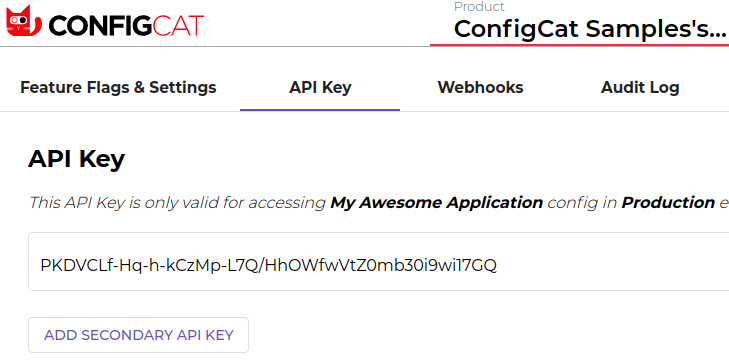
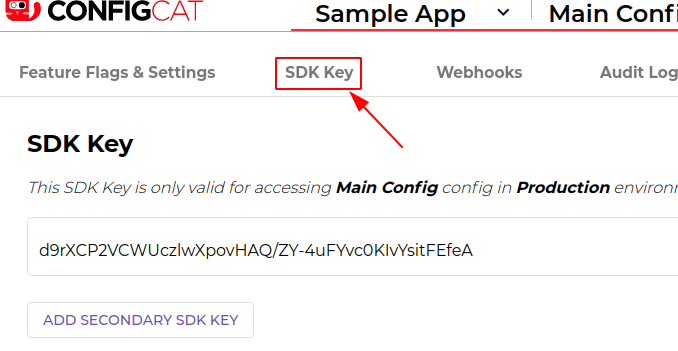
sdk key

diff --git a/test/IntegrationTests.ts b/test/IntegrationTests.ts
@@ -6,13 +6,13 @@ import { User } from "configcat-common/lib/RolloutEvaluator";
 
 describe("Integration - ConfigCatClient", () => {
 
-  let apiKey: string = "PKDVCLf-Hq-h-kCzMp-L7Q/psuH7BGHoUmdONrzzUOY7A";
+  let sdkKey: string = "PKDVCLf-Hq-h-kCzMp-L7Q/psuH7BGHoUmdONrzzUOY7A";
 
-  let clientAutoPoll: IConfigCatClient = configcatClient.createClientWithAutoPoll(apiKey);
+  let clientAutoPoll: IConfigCatClient = configcatClient.createClientWithAutoPoll(sdkKey);
 
-  let clientManualPoll: IConfigCatClient = configcatClient.createClientWithManualPoll(apiKey);
+  let clientManualPoll: IConfigCatClient = configcatClient.createClientWithManualPoll(sdkKey);
 
-  let clientLazyLoad: IConfigCatClient = configcatClient.createClientWithLazyLoad(apiKey);
+  let clientLazyLoad: IConfigCatClient = configcatClient.createClientWithLazyLoad(sdkKey);
 
   it("Auto poll - getValue() with key: 'stringDefaultCat' should return 'Cat'", (done) => {
 
@@ -185,7 +185,7 @@ describe("Integration - ConfigCatClient", () => {
     assert.equal(actual, "Horse");
   });
 
-  it("Auto poll with wrong API key - getValue() should return default value", (done) => {
+  it("Auto poll with wrong SDK Key - getValue() should return default value", (done) => {
 
     const defaultValue: string = "NOT_CAT";
     let client: IConfigCatClient = configcatClient.createClientWithAutoPoll("WRONG_API_KEY", { requestTimeoutMs: 500 });
@@ -198,7 +198,7 @@ describe("Integration - ConfigCatClient", () => {
     });
   });
 
-  it("Auto poll with wrong API key - getValueAsync() should return default value", async () => {
+  it("Auto poll with wrong SDK Key - getValueAsync() should return default value", async () => {
 
     const defaultValue: string = "NOT_CAT";
     let client: IConfigCatClient = configcatClient.createClientWithAutoPoll("WRONG_API_KEY", { requestTimeoutMs: 500 });
@@ -207,7 +207,7 @@ describe("Integration - ConfigCatClient", () => {
     assert.strictEqual(actual, defaultValue);
   });
 
-  it("Manual poll with wrong API key - getValue() should return default value", (done) => {
+  it("Manual poll with wrong SDK Key - getValue() should return default value", (done) => {
 
     const defaultValue: string = "NOT_CAT";
     let client: IConfigCatClient = configcatClient.createClientWithManualPoll("WRONG_API_KEY", { requestTimeoutMs: 500 });
@@ -226,7 +226,7 @@ describe("Integration - ConfigCatClient", () => {
     });
   });
 
-  it("Manual poll with wrong API key - getValueAsync() should return default value", async () => {
+  it("Manual poll with wrong SDK Key - getValueAsync() should return default value", async () => {
 
     const defaultValue: string = "NOT_CAT";
     let client: IConfigCatClient = configcatClient.createClientWithManualPoll("WRONG_API_KEY", { requestTimeoutMs: 500 });
@@ -238,7 +238,7 @@ describe("Integration - ConfigCatClient", () => {
     assert.strictEqual(actual2, defaultValue);
   });
 
-  it("Lazy load with wrong API key - getValue() should return default value", (done) => {
+  it("Lazy load with wrong SDK Key - getValue() should return default value", (done) => {
 
     const defaultValue: string = "NOT_CAT";
     let client: IConfigCatClient = configcatClient.createClientWithLazyLoad("WRONG_API_KEY", { requestTimeoutMs: 500 });
@@ -250,7 +250,7 @@ describe("Integration - ConfigCatClient", () => {
     });
   });
 
-  it("Lazy load with wrong API key - getValueAsync() should return default value", async () => {
+  it("Lazy load with wrong SDK Key - getValueAsync() should return default value", async () => {
 
     const defaultValue: string = "NOT_CAT";
     let client: IConfigCatClient = configcatClient.createClientWithLazyLoad("WRONG_API_KEY", { requestTimeoutMs: 500 });
@@ -259,7 +259,7 @@ describe("Integration - ConfigCatClient", () => {
     assert.strictEqual(actual, defaultValue);
   });
 
-  it("getAllKeys() should not crash with wrong API key", (done) => {
+  it("getAllKeys() should not crash with wrong SDK Key", (done) => {
 
     let client: IConfigCatClient = configcatClient.createClientWithManualPoll("WRONG_API_KEY", { requestTimeoutMs: 500 });
 
@@ -270,7 +270,7 @@ describe("Integration - ConfigCatClient", () => {
     });
   });
 
-  it("getAllKeysAsync() should not crash with wrong API key", async () => {
+  it("getAllKeysAsync() should not crash with wrong SDK Key", async () => {
 
     let client: IConfigCatClient = configcatClient.createClientWithManualPoll("WRONG_API_KEY", { requestTimeoutMs: 500 });
 

diff --git a/src/index.ts b/src/index.ts
@@ -5,39 +5,39 @@ import { LocalStorageCache } from "./Cache";
 import { LogLevel } from "configcat-common/lib/index";
 
 /** Create an instance of ConfigCatClient and setup Auto polling with default options.*/
-export function createClient(apiKey: string): IConfigCatClient {
+export function createClient(sdkkey: string): IConfigCatClient {
 
-    return this.createClientWithAutoPoll(apiKey);
+    return this.createClientWithAutoPoll(sdkkey);
 }
 
 /**
  * Create an instance of ConfigCatClient and setup Auto polling.
- * @param {string} apiKey - ApiKey to access your configuration.
+ * @param {string} sdkkey - SDK Key to access your configuration.
  * @param options - Options for Auto polling
  */
-export function createClientWithAutoPoll(apiKey: string, options?: IJSAutoPollOptions): IConfigCatClient {
+export function createClientWithAutoPoll(sdkKey: string, options?: IJSAutoPollOptions): IConfigCatClient {
 
-    return configcatcommon.createClientWithAutoPoll(apiKey, { configFetcher: new HttpConfigFetcher(), cache: new LocalStorageCache() }, options);
+    return configcatcommon.createClientWithAutoPoll(sdkKey, { configFetcher: new HttpConfigFetcher(), cache: new LocalStorageCache() }, options);
 }
 
 /**
  * Create an instance of ConfigCatClient and setup Manual polling.
- * @param {string} apiKey - ApiKey to access your configuration.
+ * @param {string} sdkKey - SDK Key to access your configuration.
  * @param options - Options for Manual polling
  */
-export function createClientWithManualPoll(apiKey: string, options?: IJSManualPollOptions): IConfigCatClient {
+export function createClientWithManualPoll(sdkKey: string, options?: IJSManualPollOptions): IConfigCatClient {
 
-    return configcatcommon.createClientWithManualPoll(apiKey, { configFetcher: new HttpConfigFetcher(), cache: new LocalStorageCache() }, options);
+    return configcatcommon.createClientWithManualPoll(sdkKey, { configFetcher: new HttpConfigFetcher(), cache: new LocalStorageCache() }, options);
 }
 
 /**
  * Create an instance of ConfigCatClient and setup Lazy loading.
- * @param {string} apiKey - ApiKey to access your configuration.
+ * @param {string} sdkKey - SDK Key to access your configuration.
  * @param options - Options for Lazy loading
  */
-export function createClientWithLazyLoad(apiKey: string, options?: IJSLazyLoadingOptions): IConfigCatClient {
+export function createClientWithLazyLoad(sdkKey: string, options?: IJSLazyLoadingOptions): IConfigCatClient {
 
-    return configcatcommon.createClientWithLazyLoad(apiKey, { configFetcher: new HttpConfigFetcher(), cache: new LocalStorageCache() }, options);
+    return configcatcommon.createClientWithLazyLoad(sdkKey, { configFetcher: new HttpConfigFetcher(), cache: new LocalStorageCache() }, options);
 }
 
 export function createConsoleLogger(logLevel: LogLevel): configcatcommon.IConfigCatLogger {

diff --git a/samples/html/dynamic.html b/samples/html/dynamic.html
@@ -18,7 +18,7 @@
         $(document).ready(function () {
             $('#start').click(function () {
                 var configCatClient = configcat.createClientWithAutoPoll(
-                    $('#apikey').val(), {
+                    $('#sdkkey').val(), {
                         pollIntervalSeconds: 4,
                         configChanged: function () {
                             updateFeatureFlagValue();
@@ -26,7 +26,7 @@
                     }
                 );
 
-                $('#apikey').prop("disabled", true);
+                $('#sdkkey').prop("disabled", true);
                 $('#flagkey').prop("disabled", true);
                 $('#start').prop("disabled", true);
 
@@ -64,11 +64,11 @@
 <body>
     <h2 class="mb-5">ConfigCat Sample Page</h2>
     <div>
-        <p><a href="https://app.configcat.com/apikey"
-            target="_blank">Login</a>  and copy your API Key and Feature Flag Key from ConfigCat. Or <a href="https://app.configcat.com/startnow" target="_blank">Get an API Key and Feature Flag Key without
+        <p><a href="https://app.configcat.com/sdkkey"
+            target="_blank">Login</a>  and copy your SDK Key and Feature Flag Key from ConfigCat. Or <a href="https://app.configcat.com/startnow" target="_blank">Get an SDK Key and Feature Flag Key without
                     registering.</a></p>
-        <label for="apikey">API Key:</label>
-        <input type="text" class="form-control mb-3" name="apikey" id="apikey" size="47" value="PKDVCLf-Hq-h-kCzMp-L7Q/HhOWfwVtZ0mb30i9wi17GQ">
+        <label for="sdkkey">SDK Key:</label>
+        <input type="text" class="form-control mb-3" name="sdkkey" id="sdkkey" size="47" value="PKDVCLf-Hq-h-kCzMp-L7Q/HhOWfwVtZ0mb30i9wi17GQ">
         <label for="flagkey">Feature Flag Key:</label>
         <input type="text" class="form-control" name="flagkey" id="flagkey" value="isAwesomeFeatureEnabled">
         <button id="start" class="btn btn-primary mt-3">Start</button>

diff --git a/src/Cache.ts b/src/Cache.ts
@@ -2,30 +2,30 @@ import { ICache } from "configcat-common";
 import { ProjectConfig } from "configcat-common/lib/ProjectConfig";
 
 export class LocalStorageCache implements ICache {
-    cache:  { [apiKey: string] : ProjectConfig; } = {};
+    cache:  { [sdkkey: string] : ProjectConfig; } = {};
 
-    Set(apiKey: string, config: ProjectConfig): void {
-        this.cache[apiKey] = config;
+    Set(sdkkey: string, config: ProjectConfig): void {
+        this.cache[sdkkey] = config;
 
         try {
-            localStorage.setItem(this.getLocalStorageKey(apiKey), btoa(JSON.stringify(config)));
+            localStorage.setItem(this.getLocalStorageKey(sdkkey), btoa(JSON.stringify(config)));
         } catch (ex) {
             // local storage is unavailable
         }
     }
 
-    Get(apiKey: string): ProjectConfig {
-        let config = this.cache[apiKey];
+    Get(sdkkey: string): ProjectConfig {
+        let config = this.cache[sdkkey];
         if (config) {
             return config;
         }
 
         try {
-            let configString = localStorage.getItem(this.getLocalStorageKey(apiKey));
+            let configString = localStorage.getItem(this.getLocalStorageKey(sdkkey));
             if (configString) {
                 let config = JSON.parse(atob(configString));
                 if (config) {
-                    this.cache[apiKey] = config;
+                    this.cache[sdkkey] = config;
                     return config;
                 }
             }
@@ -36,7 +36,7 @@ export class LocalStorageCache implements ICache {
         return null;
     }
 
-    private getLocalStorageKey(apiKey: string): string{
-        return "ConfigCat_v4" + apiKey;
+    private getLocalStorageKey(sdkkey: string): string{
+        return "ConfigCat_v4" + sdkkey;
     }
 }

diff --git a/test/IndexTests.ts b/test/IndexTests.ts
@@ -7,7 +7,7 @@ describe("ConfigCatClient index (main)", () => {
 
     it("createClient ShouldCreateInstance", () => {
 
-        var client: IConfigCatClient = configcatClient.createClient("APIKEY");
+        var client: IConfigCatClient = configcatClient.createClient("sdkKey");
 
         assert.isDefined(client);
     });

diff --git a/README.md b/README.md
@@ -36,12 +36,12 @@ import * as configcat from "configcat-js";
 <script type="text/javascript" src="https://cdn.jsdelivr.net/npm/configcat-js@latest/dist/configcat.min.js"></script>
 ```
 
-### 2. Go to the <a href="https://app.configcat.com/apikey" target="_blank">Dashboard</a> to get your *API Key*:
-![API-KEY](https://raw.githubusercontent.com/ConfigCat/js-sdk/master/media/readme01.png  "API-KEY")
+### 2. Go to the <a href="https://app.configcat.com/sdkkey" target="_blank">Dashboard</a> to get your *SDK Key*:
+![SDK-KEY](https://raw.githubusercontent.com/ConfigCat/js-sdk/master/media/readme01.png  "SDK-KEY")
 
 ### 3. Create a *ConfigCat* client instance:
 ```js
-var configCatClient = configcat.createClient("#YOUR-API-KEY#");
+var configCatClient = configcat.createClient("#YOUR-SDK-KEY#");
 ```
 > We strongly recommend using the *ConfigCat Client* as a Singleton object in your application.
 
